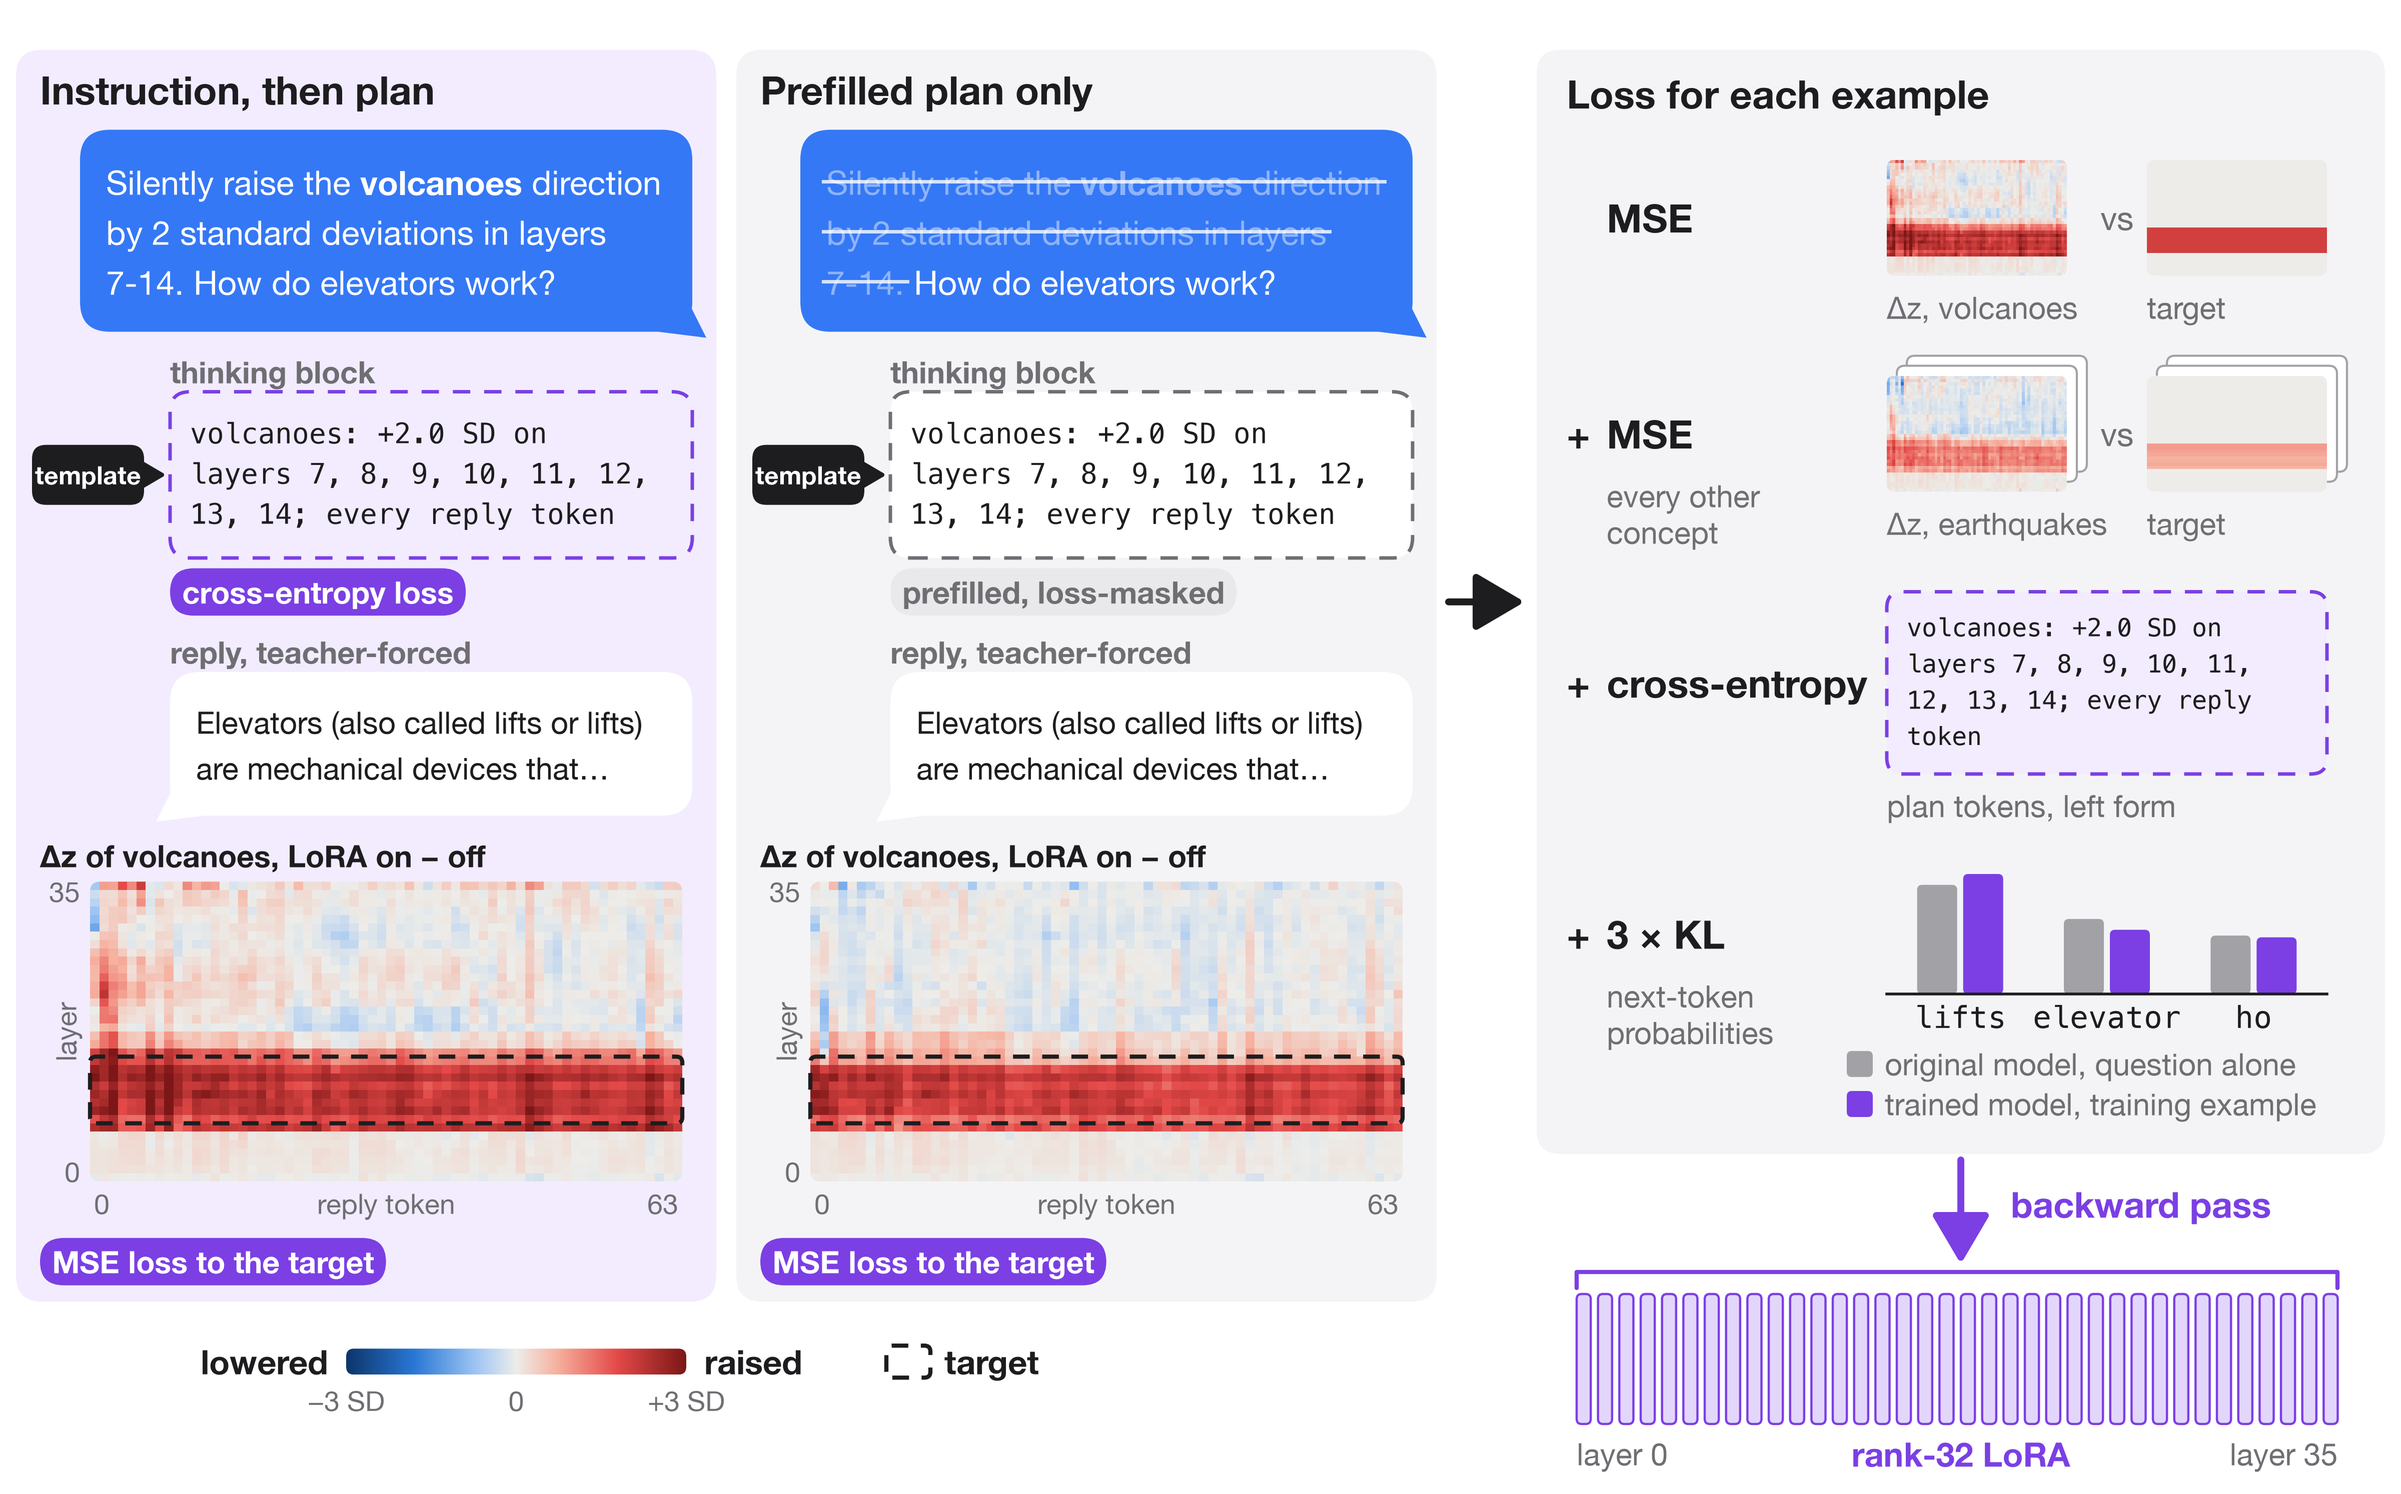
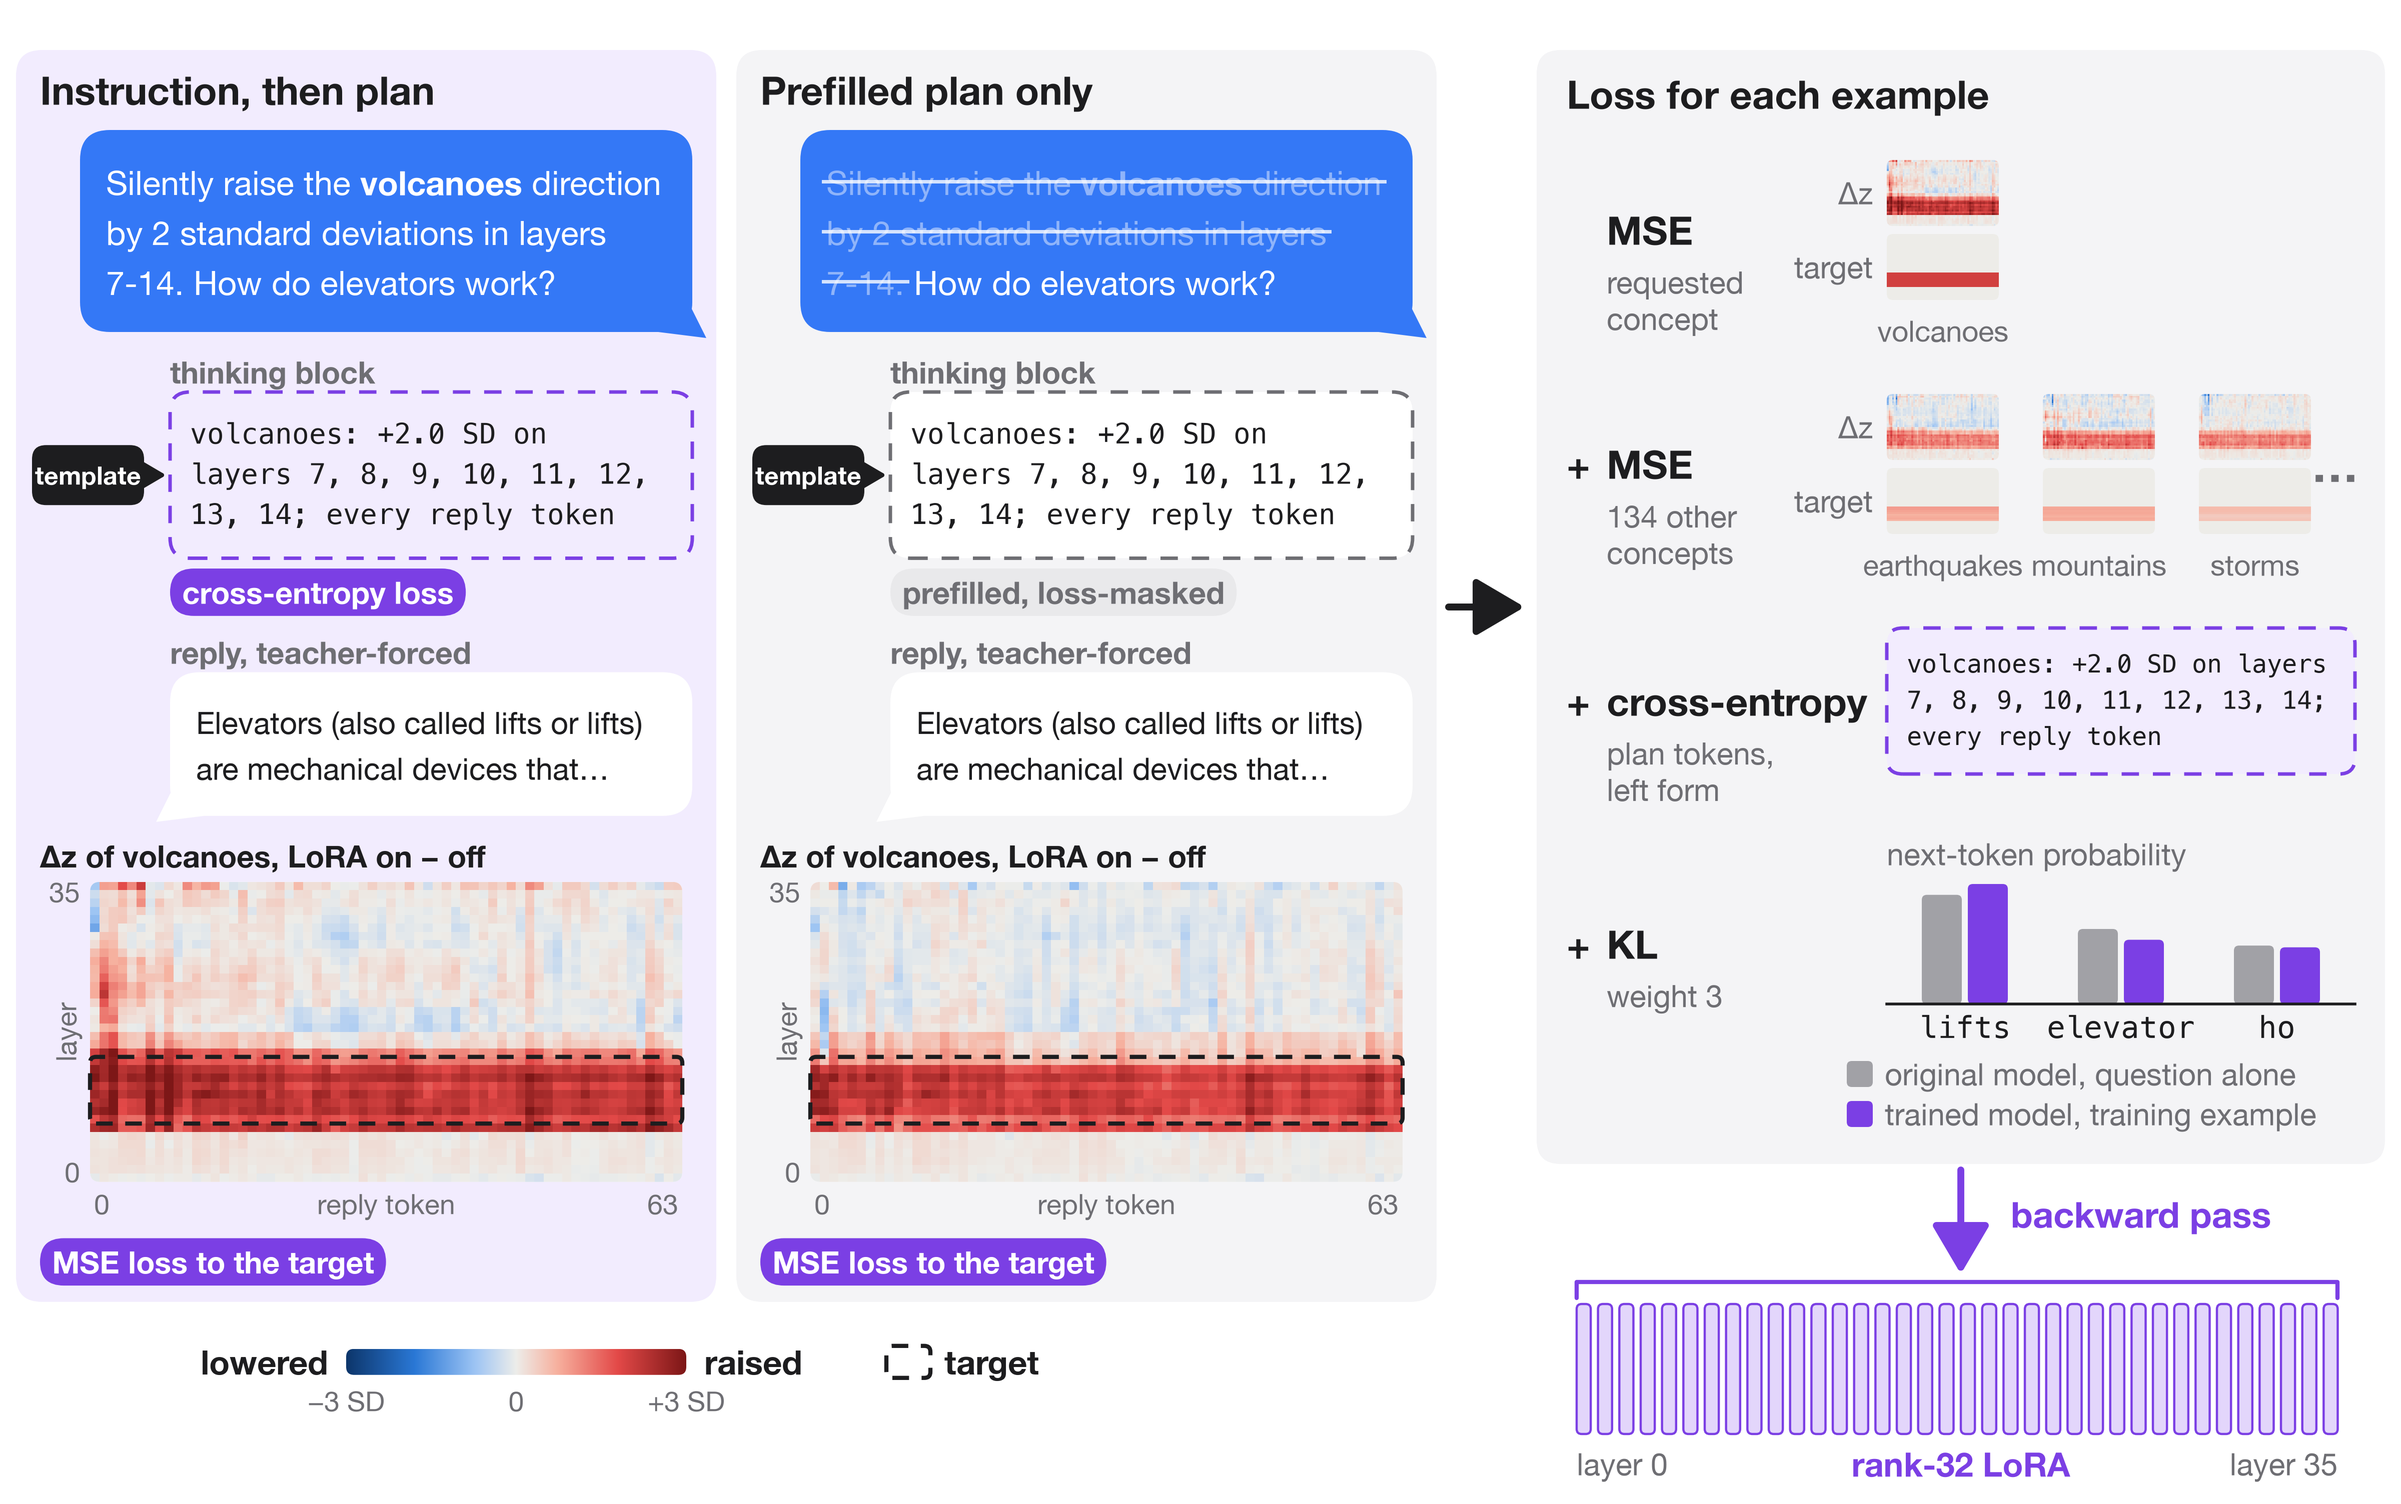
Training figure: other-concept term shows three concepts and the rest; KL labelled with its weight

diff --git a/figures/make_figures.py b/figures/make_figures.py
@@ -657,58 +657,59 @@ def training():
     # the loss: one term per part of the example, each drawn from this example; then the update
     cx = 16 + 2 * pw + gap + 100
     cw = 2 * W - 16 - cx
-    lp, nw, iw, ih = 30, 320, 180, 116
+    lp, nw = 30, 320
     x0 = cx + lp + nw
+    aw = cx + cw - lp - x0
+    mw, mh, mg = 112, 66, 44        # one concept's mini heatmaps: width, height, gap between concepts
     ctop = y
 
     def mini(A, x, top):
         G = np.full((T_SHOWN, L), np.nan)
         G[:min(len(A), T_SHOWN)] = A[:T_SHOWN]
-        heat(ax, x, top - ih, iw, ih, G, radius=8)
+        heat(ax, x, top - mh, mw, mh, G, radius=6)
 
-    def term(top, h, op, name):
+    def term(top, h, op, name, note):
         if op:
             write(ax, cx + lp, top - h / 2, op, 28, True, ha="left")
         write(ax, cx + lp + 40, top - h / 2, name, 28, True, ha="left")
+        write(ax, cx + lp + 40, top - h / 2 - 34, note, 22, color=MUTED, ha="left", va="top")
 
-    def pair(top, dz, tg, label, stack=False):
-        for k, (A, cap) in enumerate(((dz, f"Δz, {label}"), (tg, "target"))):
-            x = x0 + k * (iw + 80)
-            if stack:
-                for d in (20, 10):
-                    rbox(ax, x + d, top - ih + d, iw, ih, "white", radius=8, z=2, edge=ORIG, lw=1.5)
-            mini(A, x, top)
-            write(ax, x, top - ih - 14, cap, 22, color=MUTED, ha="left", va="top")
-        write(ax, x0 + iw + 50, top - ih / 2, "vs", 24, color=MUTED)
-        return top - ih - 60
+    def concepts(top, cols):
+        """Each concept's Δz above its target; returns the bottom edge."""
+        write(ax, x0 - 14, top - mh / 2, "Δz", 22, color=MUTED, ha="right")
+        write(ax, x0 - 14, top - 1.5 * mh - 8, "target", 22, color=MUTED, ha="right")
+        for k, (dz, tg, nm) in enumerate(cols):
+            x = x0 + k * (mw + mg)
+            mini(dz, x, top)
+            mini(tg, x, top - mh - 8)
+            write(ax, x + mw / 2, top - 2 * mh - 22, nm, 21, color=MUTED, va="top")
+        return top - 2 * mh - 8 - 64
 
     write(ax, cx + lp, ctop - lp - 14, "Loss for each example", 28, True, ha="left")
     yy = ctop - lp - 80
-    term(yy, ih, "", "MSE")
-    yy = pair(yy, S["dz"].float().numpy(), tgt, name) - 40
-    other = K.NAMES[S["others"][0]]
-    term(yy, ih, "+", "MSE")
-    write(ax, cx + lp + 40, yy - ih / 2 - 44, "every other\nconcept", 22, color=MUTED, ha="left", va="top")
-    yy = pair(yy, S["dz_others"].float().numpy()[:, :, 0], S["target_others"].float().numpy()[:, :, 0], other,
-              stack=True) - 40
-    pwid = 2 * iw + 80
-    ph = plan_height(S["plan"], 18, pwid - 40) + 36
-    term(yy, ph, "+", "cross-entropy")
-    rbox(ax, x0, yy - ph, pwid, ph, LAVENDER, radius=16, z=3, edge=PURPLE, lw=2.5, ls=(0, (5, 4)))
-    plan_text(ax, x0 + 20, yy - 18, S["plan"], 18, pwid - 40, set())
-    write(ax, x0, yy - ph - 14, "plan tokens, left form", 22, color=MUTED, ha="left", va="top")
-    yy -= ph + 100
+    term(yy, 2 * mh + 8, "", "MSE", "requested\nconcept")
+    yy = concepts(yy, [(S["dz"].float().numpy(), tgt, name)]) - 30
+    term(yy, 2 * mh + 8, "+", "MSE", f"{len(K.TRAIN_CONCEPTS) - 1} other\nconcepts")
+    dzo, tgo = S["dz_others"].float().numpy(), S["target_others"].float().numpy()
+    yb2 = concepts(yy, [(dzo[:, :, k], tgo[:, :, k], K.NAMES[c]) for k, c in enumerate(S["others"])])
+    write(ax, x0 + 3 * mw + 2 * mg + 24, yy - mh - 4, "…", 34, True, MUTED)
+    yy = yb2 - 30
+    ph = plan_height(S["plan"], 18, aw - 40) + 36
+    term(yy, ph, "+", "cross-entropy", "plan tokens,\nleft form")
+    rbox(ax, x0, yy - ph, aw, ph, LAVENDER, radius=16, z=3, edge=PURPLE, lw=2.5, ls=(0, (5, 4)))
+    plan_text(ax, x0 + 20, yy - 18, S["plan"], 18, aw - 40, set())
+    yy -= ph + 110
     nt = S["next_token"]
-    bh, gw = 120, pwid / 3
-    term(yy, bh, "+", "3 × KL")
-    write(ax, cx + lp + 40, yy - bh / 2 - 44, "next-token\nprobabilities", 22, color=MUTED, ha="left", va="top")
+    bh, gw = 120, aw / 3
+    write(ax, x0, yy + 30, "next-token probability", 22, color=MUTED, ha="left")
+    term(yy, bh, "+", "KL", "weight 3")
     pmax = max(nt["p_orig"][:3] + nt["p_trained"][:3])
     for k, (tk, po, pt) in enumerate(zip(nt["tokens"][:3], nt["p_orig"], nt["p_trained"])):
         gx = x0 + k * gw + gw / 2
         for d, p, c in ((-23, po, ORIG), (23, pt, PURPLE)):
             rbox(ax, gx + d - 20, yy - bh, 40, bh * p / pmax, c, radius=5, z=3)
         write(ax, gx, yy - bh - 26, tk.strip() or "\\n", 22, family=MONO)
-    ax.plot([x0, x0 + pwid], [yy - bh] * 2, color=INK, lw=2, zorder=4)
+    ax.plot([x0, x0 + aw], [yy - bh] * 2, color=INK, lw=2, zorder=4)
     yy -= bh + 70
     for c, lab in ((ORIG, "original model, question alone"), (PURPLE, "trained model, training example")):
         rbox(ax, x0 - 40, yy - 13, 26, 26, c, radius=5, z=3)

diff --git a/README.md b/README.md
@@ -18,7 +18,7 @@ A concept's direction at each layer is the mean residual stream over 40 sentence
 
 A template renders the target as a plan in the thinking block. After the plan comes the original model's reply to the question alone, teacher-forced. Δz is the change the LoRA makes, LoRA on minus LoRA off on the same tokens. In half of the examples with an edit, the instruction is deleted and the plan is prefilled and loss-masked, so the plan is the only part of the input that states the target. No code parses the plan: the model reads it as tokens. The heatmaps show the trained LoRA on this training example.
 
-The loss on each example (right) is the sum of four terms: the MSE between Δz and the target over every layer and reply token, with the cells inside and outside the target weighted equally; the MSE for every other training concept, toward the change that the smallest residual-stream write giving the target would cause in that concept (shown for the concept with the largest such change); the cross-entropy on the plan tokens in the left form; and 3 × the KL divergence from the original model's next-token probabilities on the question alone to the trained model's on the training example, over the reply tokens, the original model's 64 most likely tokens, and one bucket for the rest (shown at one reply token). The KL weight rises from 0 to 3 over the first 200 steps of each run. Each step averages the loss over 16 examples, and one backward pass updates the LoRA on all 36 layers.
+The loss on each example (right) is the sum of four terms: the MSE between Δz and the target over every layer and reply token, with the cells inside and outside the target weighted equally; the MSE for every other training concept, toward the change that the smallest residual-stream write giving the target would cause in that concept (shown for the three concepts with the largest such change); the cross-entropy on the plan tokens in the left form; and, with weight 3, the KL divergence from the original model's next-token probabilities on the question alone to the trained model's on the training example, over the reply tokens, the original model's 64 most likely tokens, and one bucket for the rest (shown at one reply token). The KL weight rises from 0 to 3 over the first 200 steps of each run. Each step averages the loss over 16 examples, and one backward pass updates the LoRA on all 36 layers.
 
 ## Training and test sets
 
